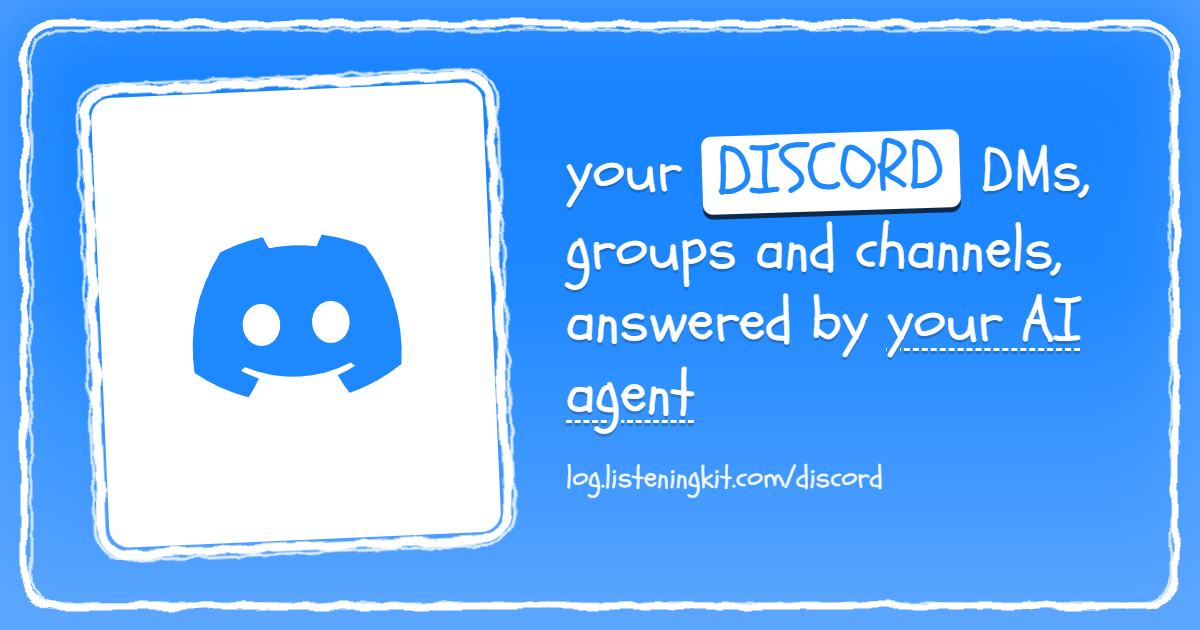
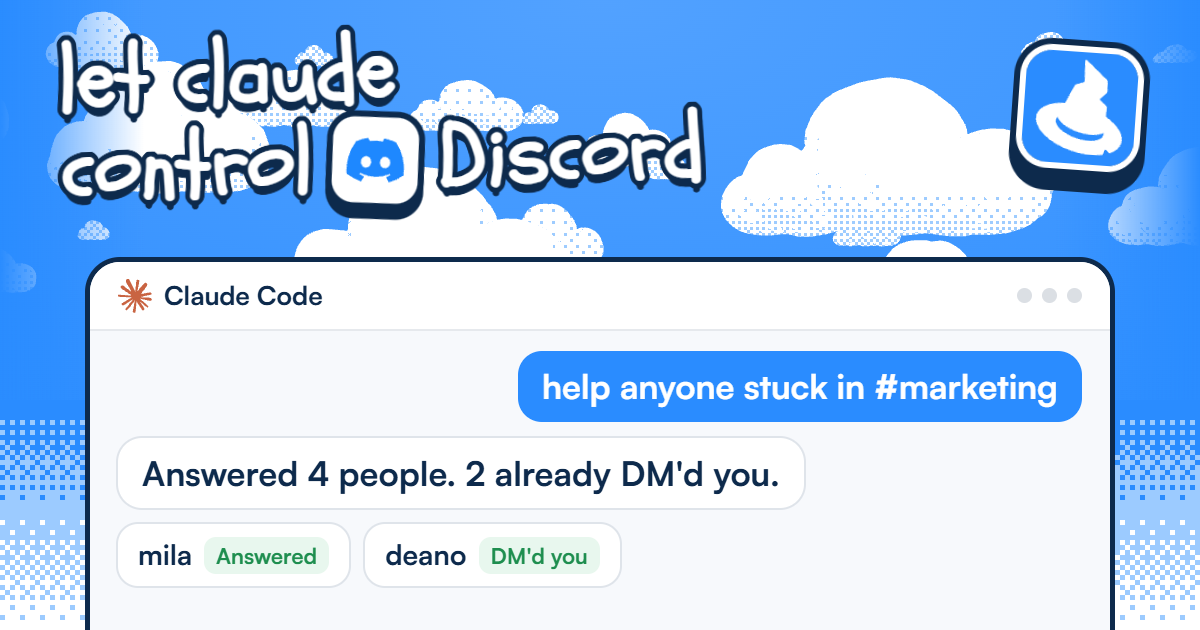
feat(site): platform share cards on the hero's clay clouds and dither, Claude Code in the lower half, versioned for X

diff --git a/site/apps/web/src/landing/shareCard/ShareCardPage.tsx b/site/apps/web/src/landing/shareCard/ShareCardPage.tsx
@@ -1,0 +1,72 @@
+import { useParams } from 'react-router-dom'
+import { FontAwesomeIcon } from '@fortawesome/react-fontawesome'
+import { faDiscord, faInstagram, faReddit, faSlack, faXTwitter, type IconDefinition } from '@fortawesome/free-brands-svg-icons'
+import { ClayClouds } from '../ClayClouds'
+import { DitherFade } from '../useCases/DitherFade'
+import sharePages from '../useCases/sharePages.json'
+import '../story/story.css'
+
+const ICONS: Record<string, IconDefinition> = { faXTwitter, faDiscord, faSlack, faInstagram, faReddit }
+
+const CLAUDE_MASK = {
+  maskImage: 'url(/logos/tools/claude-desktop.svg)',
+  WebkitMaskImage: 'url(/logos/tools/claude-desktop.svg)',
+  maskSize: 'contain',
+  WebkitMaskSize: 'contain',
+  maskRepeat: 'no-repeat',
+  WebkitMaskRepeat: 'no-repeat',
+}
+
+const OUTLINE = Array.from({ length: 32 }, (_, index) => {
+  const angle = (index / 32) * Math.PI * 2
+  return `${(Math.cos(angle) * 6).toFixed(2)}px ${(Math.sin(angle) * 6).toFixed(2)}px 0 #0D2A4C`
+})
+  .concat('0 10px 0 #0D2A4C')
+  .join(',')
+
+export function ShareCardPage() {
+  const { slug } = useParams()
+  const page = sharePages.find((item) => item.slug === slug)
+  if (!page) return null
+  return (
+    <div className="lk-story relative isolate h-[630px] w-[1200px] overflow-hidden bg-[#2A8CFF] text-[#0D2A4C]">
+      <div className="absolute inset-x-0 top-0 h-[46rem] bg-[radial-gradient(ellipse_130%_100%_at_50%_0%,rgba(92,167,255,0.8)_0%,transparent_80%)]" />
+      <ClayClouds className="absolute inset-x-0 top-0 h-[560px] [mask-image:linear-gradient(to_bottom,black_80%,transparent)]" />
+      <DitherFade stops={['#2A8CFF', '#9CCBFF', '#FFFFFF']} cell={5} className="absolute inset-x-0 bottom-0 h-[230px] w-full" />
+      <h1 className="absolute left-[60px] top-[40px] z-10 flex origin-left -rotate-2 flex-col gap-1 font-['Schoolbell',cursive] text-[88px] leading-[0.95] text-white [-webkit-text-stroke:2px_#fff]" style={{ textShadow: OUTLINE }}>
+        <span>let claude</span>
+        <span className="flex items-center gap-5">
+          control
+          <span className="grid size-[86px] rotate-[4deg] place-items-center rounded-[22px] bg-white text-[#1E88FF] shadow-[0_0_0_6px_#0D2A4C,0_10px_0_6px_#0D2A4C] [text-shadow:none]">
+            <FontAwesomeIcon icon={ICONS[page.icon]} className="text-[50px]" />
+          </span>
+          {page.card.name}
+        </span>
+      </h1>
+      <img src="/logo.svg" alt="log" className="absolute right-[64px] top-[52px] z-10 size-[112px] rotate-[4deg] rounded-[26px] shadow-[0_0_0_6px_#fff,0_0_0_12px_#0D2A4C,0_16px_0_12px_#0D2A4C]" />
+      <div className="absolute left-[90px] top-[262px] z-10 h-[420px] w-[1020px] overflow-hidden rounded-[30px] bg-[#F7F9FC] shadow-[0_0_0_5px_#0D2A4C,0_14px_0_5px_#0D2A4C]">
+        <div className="flex items-center gap-3 border-b-2 border-[#0D2A4C]/10 bg-white px-7 py-3.5 text-[26px] font-black">
+          <span aria-hidden className="block size-[34px] bg-[#c96442]" style={CLAUDE_MASK} />
+          Claude Code
+          <span className="ml-auto flex gap-2.5">
+            {[0, 1, 2].map((dot) => (
+              <i key={dot} className="size-[15px] rounded-full bg-[#0D2A4C]/15" />
+            ))}
+          </span>
+        </div>
+        <div className="flex flex-col gap-4 px-7 py-5">
+          <p className="ml-auto rounded-[24px] bg-[#2A8CFF] px-6 py-3.5 text-[34px] font-bold leading-tight text-white">{page.chat.ask}</p>
+          <p className="self-start rounded-[24px] bg-white px-6 py-3.5 text-[34px] font-bold leading-tight shadow-[0_0_0_2px_rgba(13,42,76,0.1)]">{page.chat.done}</p>
+          <div className="flex gap-4">
+            {page.chat.rows.map((row) => (
+              <p key={row.who} className="flex items-center gap-3 rounded-[20px] bg-white px-5 py-2.5 text-[28px] font-bold shadow-[0_0_0_2px_rgba(13,42,76,0.1)]">
+                {row.who}
+                <em className="rounded-xl bg-[#E8F7EE] px-3 py-0.5 text-[22px] font-black not-italic text-[#1E8E4F]">{row.status}</em>
+              </p>
+            ))}
+          </div>
+        </div>
+      </div>
+    </div>
+  )
+}

diff --git a/site/apps/web/src/App.tsx b/site/apps/web/src/App.tsx
@@ -8,6 +8,7 @@ import { UseCasesPage } from './landing/useCases/UseCasesPage'
 import { ReaLooksmaxxingPage } from './landing/useCases/ReaLooksmaxxingPage'
 import { XreacherAlternativePage } from './landing/devlog/XreacherAlternativePage'
 import { DevlogIndexPage } from './landing/devlog/DevlogIndexPage'
+import { ShareCardPage } from './landing/shareCard/ShareCardPage'
 import { StaticDocsRedirect } from './components/StaticDocsRedirect'
 
 const createQueryClient = () => new QueryClient({
@@ -59,6 +60,7 @@ export function App() {
             <Route path="/devlog/xreacher-alternative" element={<XreacherAlternativePage />} />
             <Route path="/docs" element={<StaticDocsRedirect />} />
             <Route path="/docs/*" element={<StaticDocsRedirect />} />
+            <Route path="/shareCard/:slug" element={<ShareCardPage />} />
             <Route path="/health" element={<HealthPage />} />
             <Route path="*" element={<Navigate to="/" replace />} />
           </Routes>

diff --git a/site/apps/web/scripts/ogCards.py b/site/apps/web/scripts/ogCards.py
@@ -1,6 +1,8 @@
 import html
 import json
 import subprocess
+import time
+import urllib.request
 import sys
 import tempfile
 from pathlib import Path
@@ -10,23 +12,11 @@ from playwright.sync_api import sync_playwright
 WEB = Path(__file__).resolve().parent.parent
 PUBLIC = WEB / "public"
 TEMPLATE = (WEB / "scripts" / "ogCard.html").read_text(encoding="utf-8")
+SHARE_CARD_PORT = 5317
+SHARE_CARD_SITE = f"http://localhost:{SHARE_CARD_PORT}"
 ARTICLES = json.loads((WEB / "src" / "landing" / "devlog" / "articles.json").read_text(encoding="utf-8"))
 SHARE_PAGES = json.loads((WEB / "src" / "landing" / "useCases" / "sharePages.json").read_text(encoding="utf-8"))
 PHOTO = PUBLIC / "images" / "mattlistening.webp"
-ICON_SCRIPT = (
-    "const b=require('@fortawesome/free-brands-svg-icons');"
-    "const out={};for(const n of process.argv.slice(1)){const i=b[n].icon;out[n]={w:i[0],h:i[1],d:String(i[4])}}"
-    "process.stdout.write(JSON.stringify(out))"
-)
-
-
-def icon_paths(names):
-    if not names:
-        return {}
-    run = subprocess.run(["node", "-e", ICON_SCRIPT, *names], cwd=WEB, capture_output=True, text=True, check=True, shell=False)
-    return json.loads(run.stdout)
-
-
 def fill(card, panel, footer):
     return (
         TEMPLATE.replace("{{LEAD}}", html.escape(card["lead"]))
@@ -41,12 +31,7 @@ def photo_panel():
     return f'<div class="clip"><img src="{PHOTO.as_uri()}" alt="Matthew Don" /></div>'
 
 
-def logo_panel(icon):
-    return f'<div class="logo"><svg viewBox="0 0 {icon["w"]} {icon["h"]}" aria-hidden="true"><path d="{icon["d"]}" /></svg></div>'
-
-
 def cards(wanted):
-    icons = icon_paths(sorted({page["icon"] for page in SHARE_PAGES}))
     for article in ARTICLES:
         yield (
             article["slug"],
@@ -57,14 +42,36 @@ def cards(wanted):
         yield (
             page["slug"],
             PUBLIC / "og" / "pages" / f"{page['slug']}.png",
-            fill(page["card"], logo_panel(icons[page["icon"]]), f"log.listeningkit.com/{page['slug']}"),
+            f"{SHARE_CARD_SITE}/shareCard/{page['slug']}",
         )
+
+
+def start_site():
+    server = subprocess.Popen(
+        ["npx", "vite", "--port", str(SHARE_CARD_PORT), "--strictPort"],
+        cwd=WEB, stdout=subprocess.DEVNULL, stderr=subprocess.DEVNULL, shell=sys.platform == "win32",
+    )
+    for _ in range(120):
+        try:
+            urllib.request.urlopen(SHARE_CARD_SITE, timeout=2)
+            return server
+        except Exception:
+            time.sleep(0.5)
+    stop_site(server)
+    raise SystemExit("the site never answered for the share cards")
+
+
+def stop_site(server):
+    if sys.platform == "win32":
+        subprocess.run(["taskkill", "/F", "/T", "/PID", str(server.pid)], capture_output=True)
+    else:
+        server.terminate()
 
 
 def launch(playwright):
     for channel in ("chrome", "msedge"):
         try:
-            return playwright.chromium.launch(channel=channel)
+            return playwright.chromium.launch(channel=channel, args=["--use-angle=swiftshader", "--enable-unsafe-swiftshader"])
         except Exception:
             continue
     return playwright.chromium.launch()
@@ -74,20 +81,29 @@ def main(wanted):
     todo = [card for card in cards(wanted) if not wanted or card[0] in wanted]
     if not todo:
         raise SystemExit(f"no share card matches {wanted}")
+    server = start_site() if any(body.startswith(SHARE_CARD_SITE) for _, _, body in todo) else None
     with sync_playwright() as playwright, tempfile.TemporaryDirectory() as scratch:
         browser = launch(playwright)
         try:
             page = browser.new_page(viewport={"width": 1200, "height": 630})
             for slug, out, body in todo:
-                file = Path(scratch) / f"{slug}.html"
-                file.write_text(body, encoding="utf-8")
-                page.goto(file.as_uri(), wait_until="networkidle")
-                page.evaluate("document.fonts.ready")
+                if body.startswith(SHARE_CARD_SITE):
+                    page.goto(body, wait_until="networkidle")
+                    page.wait_for_selector("canvas", timeout=30000)
+                    page.evaluate("document.fonts.ready")
+                    page.wait_for_timeout(2500)
+                else:
+                    file = Path(scratch) / f"{slug}.html"
+                    file.write_text(body, encoding="utf-8")
+                    page.goto(file.as_uri(), wait_until="networkidle")
+                    page.evaluate("document.fonts.ready")
                 out.parent.mkdir(parents=True, exist_ok=True)
                 page.screenshot(path=str(out), type="png", clip={"x": 0, "y": 0, "width": 1200, "height": 630})
                 print(f"wrote {out.relative_to(WEB)}")
         finally:
             browser.close()
+            if server:
+                stop_site(server)
 
 
 if __name__ == "__main__":

diff --git a/log/2026-11-08.md b/log/2026-11-08.md
@@ -955,3 +955,25 @@ What changed: the platform pages (`/twitter`, `/discord`, `/slack`, `/instagram`
 - The devlogMaxxing skill is updated.
 Why: matt asked for the other pages like /instagram, /twitter, /slack and /discord to get Open Graph too, styled around the platform's logo without his face, for every platform page.
 Checked: `tsc --noEmit --skipLibCheck` in `site/apps/web` passes. `npx vite build` and then `node site/scripts/prerenderPages.mjs` wrote all seven pages; `dist/twitter.html` has its own title and `og/pages/twitter.png`. All six cards were rendered and the X and Discord ones looked at.
+
+## 2026-11-08 20:46Z · site/platformOgCards
+
+AST (generated from the staged code by scripts/commitLog/astSummary.mjs, don't edit):
+- `site/apps/web/public/og/pages/discord.png`: edited
+- `site/apps/web/public/og/pages/instagram.png`: edited
+- `site/apps/web/public/og/pages/reddit.png`: edited
+- `site/apps/web/public/og/pages/slack.png`: edited
+- `site/apps/web/public/og/pages/twitter.png`: edited
+- `site/apps/web/scripts/ogCards.py`: added const SHARE_CARD_PORT, const SHARE_CARD_SITE, def start_site, def stop_site · changed def cards, def launch, def main · removed const ICON_SCRIPT, def icon_paths, def logo_panel
+- `site/apps/web/src/App.tsx`: changed function App
+- `site/apps/web/src/landing/shareCard/ShareCardPage.tsx`: added const ICONS, const CLAUDE_MASK, const OUTLINE, function ShareCardPage
+- `site/apps/web/src/landing/useCases/sharePages.json`: edited
+- `site/scripts/prerenderPages.mjs`: added function versioned
+
+What changed: the platform share cards are rebuilt on the platform pages' own hero.
+- `landing/shareCard/ShareCardPage.tsx` is a 1200x630 page at `/shareCard/<platform>`: the hero's sky, `ClayClouds` and `DitherFade`. Top left is a white, navy-outlined "let claude / control <logo> <platform>" over two lines, with the log logo top right and a Claude Code window in the lower half: the ask, the answer and the people it went to, in large type.
+- `sharePages.json` holds each card's chat (ask, answer, rows).
+- `ogCards.py` starts the site, screenshots each `/shareCard/<platform>` once its clouds have drawn, and stops the site. The devlog cards still render from `ogCard.html`.
+- `prerenderPages.mjs` adds the image's content hash to every share image URL (`?v=`), so X and the others fetch the new card instead of a cached old one.
+Why: matt said the old cards were poor and asked for the 3D clouds and dither from the hero, Claude Code in the lower half, a sticker top left saying let claude control <platform>, bigger readable copy, a white sticker with an outline, the log logo top right, and for it to work as the Twitter card.
+Checked: `npx tsc -b` in `site/apps/web` passes. All five cards were rendered and looked at. `node site/scripts/build-site.mjs` built the web app and prerendered all seven pages; `dist/discord.html` has `twitter:card` summary_large_image and `twitter:image` `og/pages/discord.png?v=340fc46e2f`. The docs build stopped locally because `next` isn't installed in this worktree.

diff --git a/log.md b/log.md
@@ -11,7 +11,7 @@ Entries before the AST hook existed were rebuilt from each commit with
 
 | Day | Commits |
 | --- | --- |
-| [2026-11-08](log/2026-11-08.md) | 48 |
+| [2026-11-08](log/2026-11-08.md) | 49 |
 | [2026-11-07](log/2026-11-07.md) | 47 |
 | [2026-11-06](log/2026-11-06.md) | 7 |
 | [2026-11-05](log/2026-11-05.md) | 30 |
